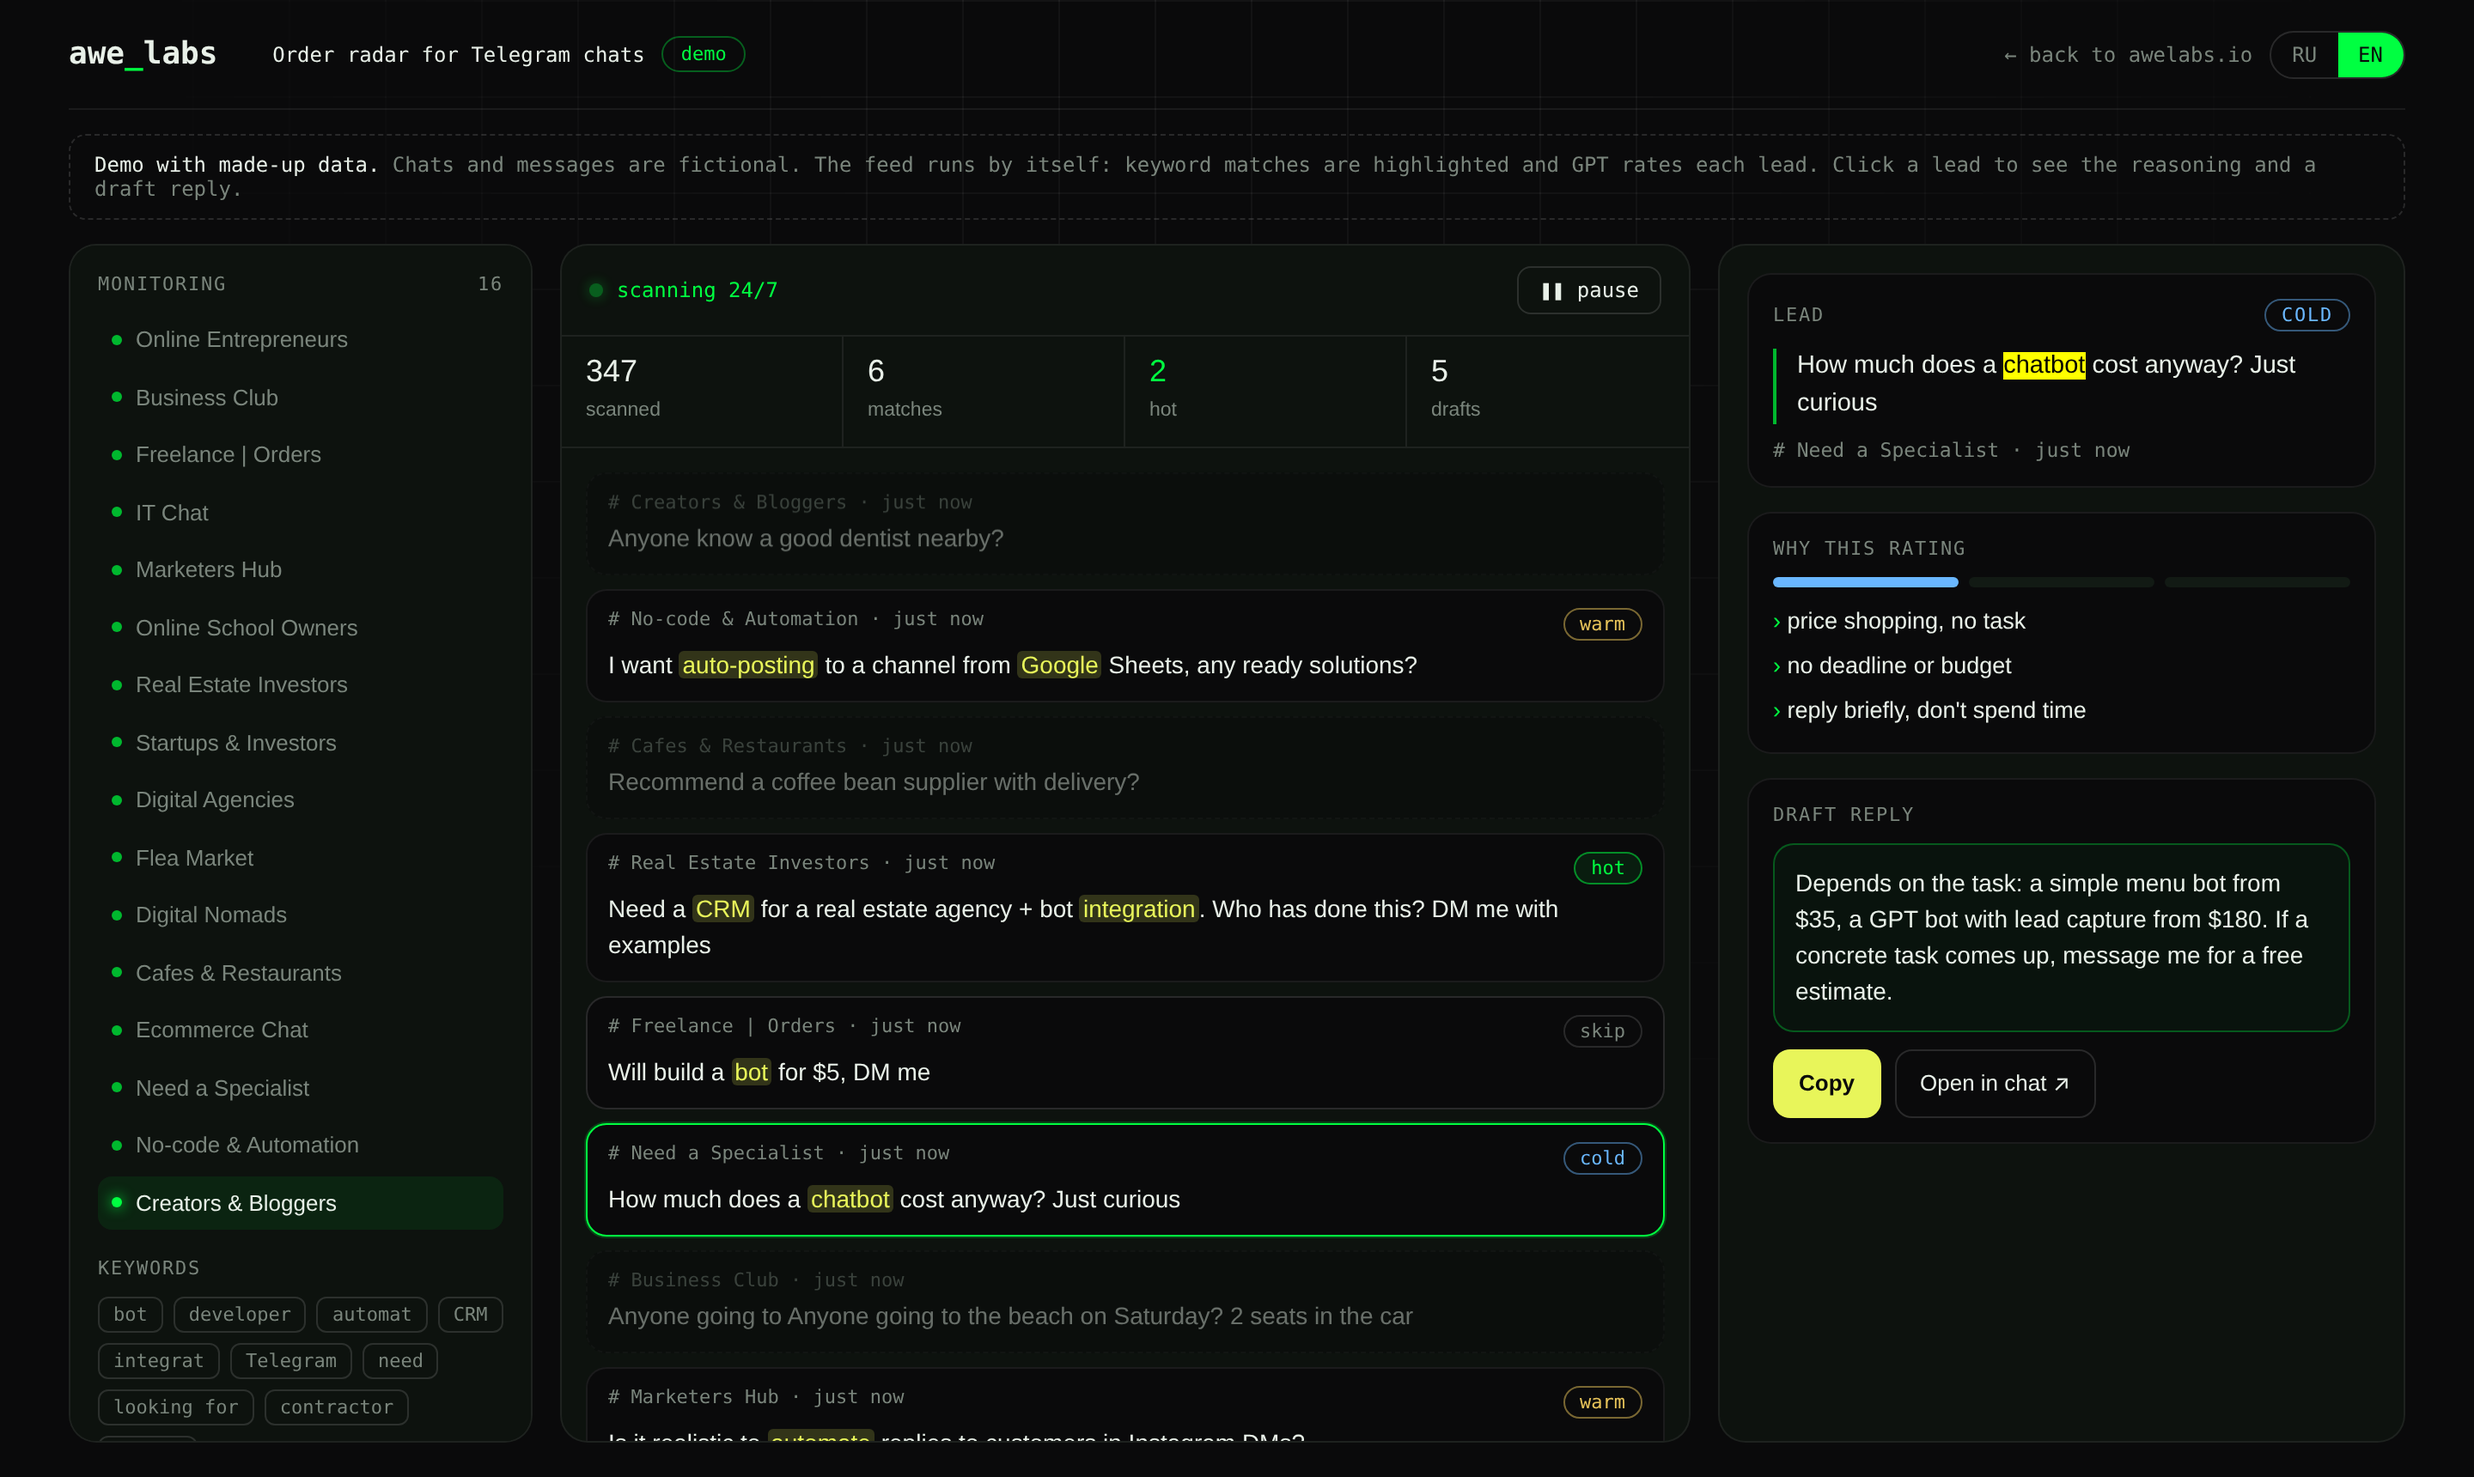
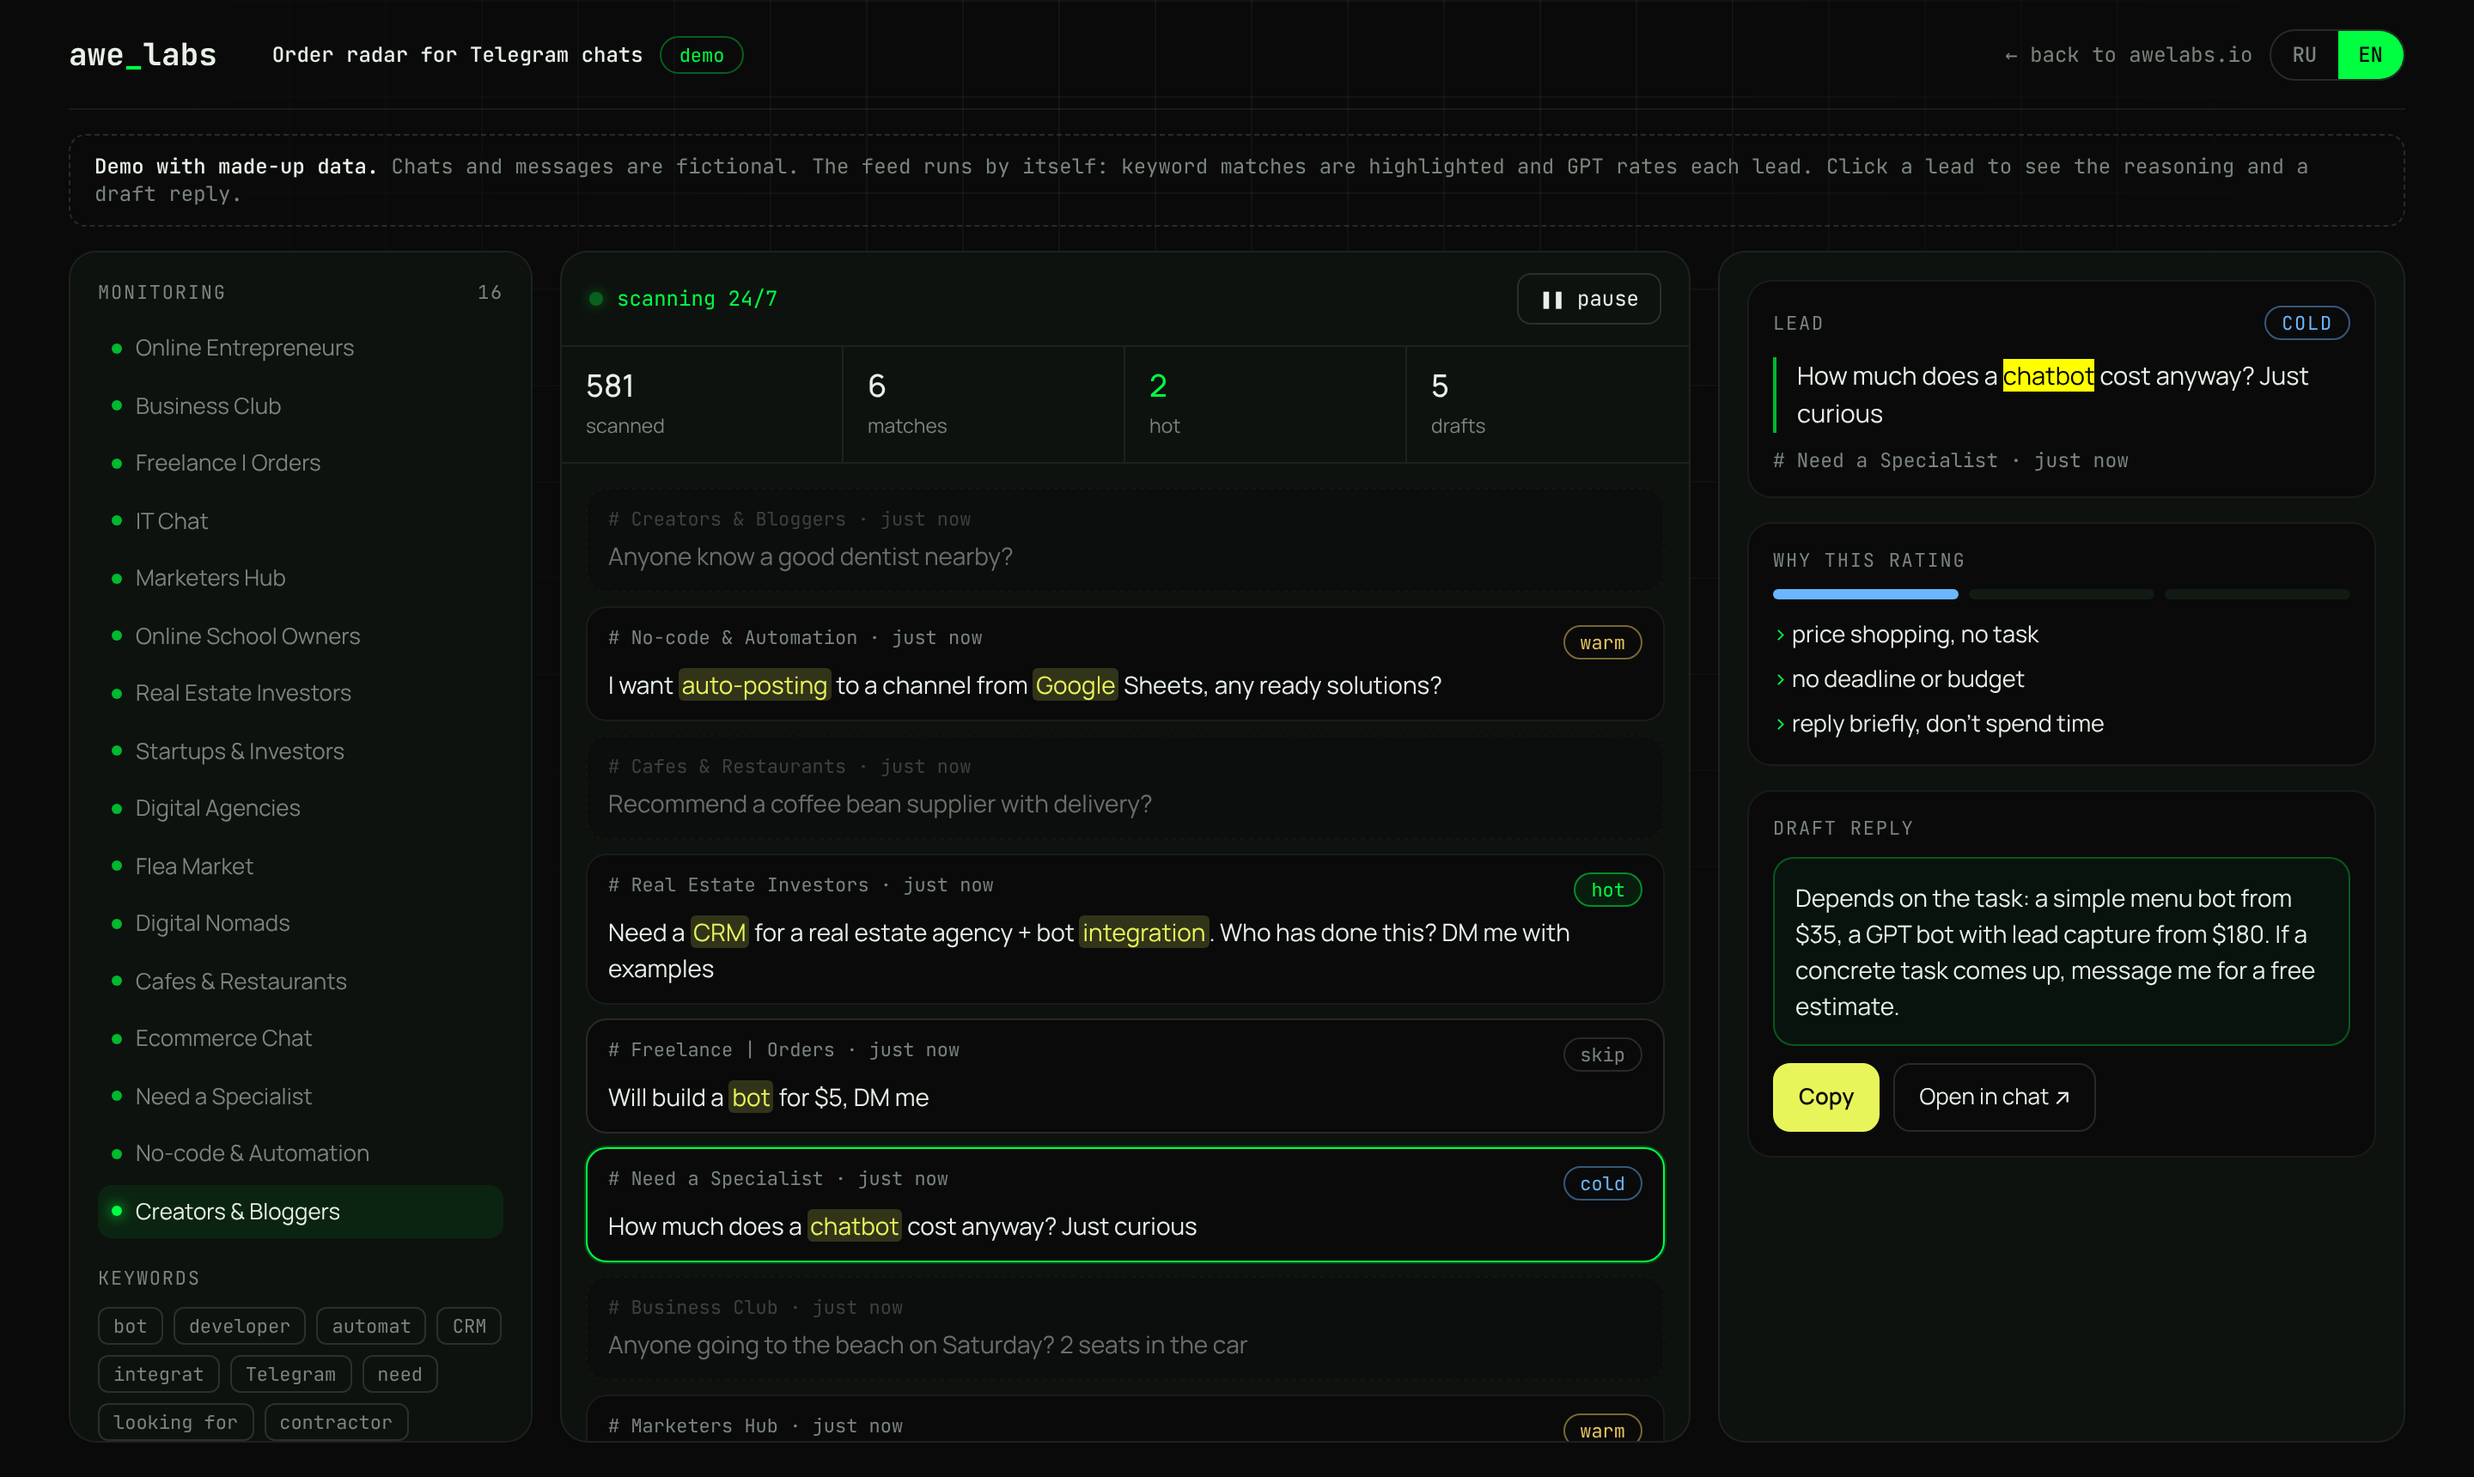
Fix typo in EN feed

diff --git a/index.html b/index.html
@@ -174,7 +174,7 @@ F:[
  [0,"Looking for a developer: need a Telegram bot to take orders for a cafe, with payments. Budget is there, launch in December",{l:"hot",k:["Looking for a developer","Telegram bot","Budget"],w:["concrete task: orders + payments","budget confirmed, deadline set","matches the profile: bots for business"],d:"Hi! I build Telegram bots for cafes: order intake, online payments, kitchen notifications.\nHappy to show a similar project and estimate a December timeline. Is your menu already in a spreadsheet or on a website, and which payment method do you need?"}],
  [10,"Where's the best place to exchange money now?",null],
  [4,"Is it realistic to automate replies to customers in Instagram DMs?",{l:"warm",k:["automate"],w:["interested in automation","no specifics on task or budget","worth replying to find out more"],d:"Yes: a bot answers common questions, collects the request and passes it to you.\nRoughly how many messages a day do you get, and what do people ask most? I'll suggest what's worth automating."}],
- [1,"Anyone going to Anyone going to the beach on Saturday? 2 seats in the car",null],
+ [1,"Anyone going to the beach on Saturday? 2 seats in the car",null],
  [13,"How much does a chatbot cost anyway? Just curious",{l:"cold",k:["chatbot"],w:["price shopping, no task","no deadline or budget","reply briefly, don't spend time"],d:"Depends on the task: a simple menu bot from $35, a GPT bot with lead capture from $180. If a concrete task comes up, message me for a free estimate."}],
  [2,"Will build a bot for $5, DM me",{l:"skip",k:["bot"],w:["this is an offer, not an order","a competitor, not a client"]}],
  [6,"Need a CRM for a real estate agency + bot integration. Who has done this? DM me with examples",{l:"hot",k:["CRM","integration"],w:["exactly our profile: CRM + bots for real estate","asking for examples - ready to choose a contractor","we have a live case to show"],d:"Hi! I've built exactly that for a real estate agency: leads, listings, sale and rent pipelines, contracts from deal data, plus an AI bot on listing sites.\nI can show you a demo and how the agency uses it every day. How many agents do you have and where do leads come from now?"}],
